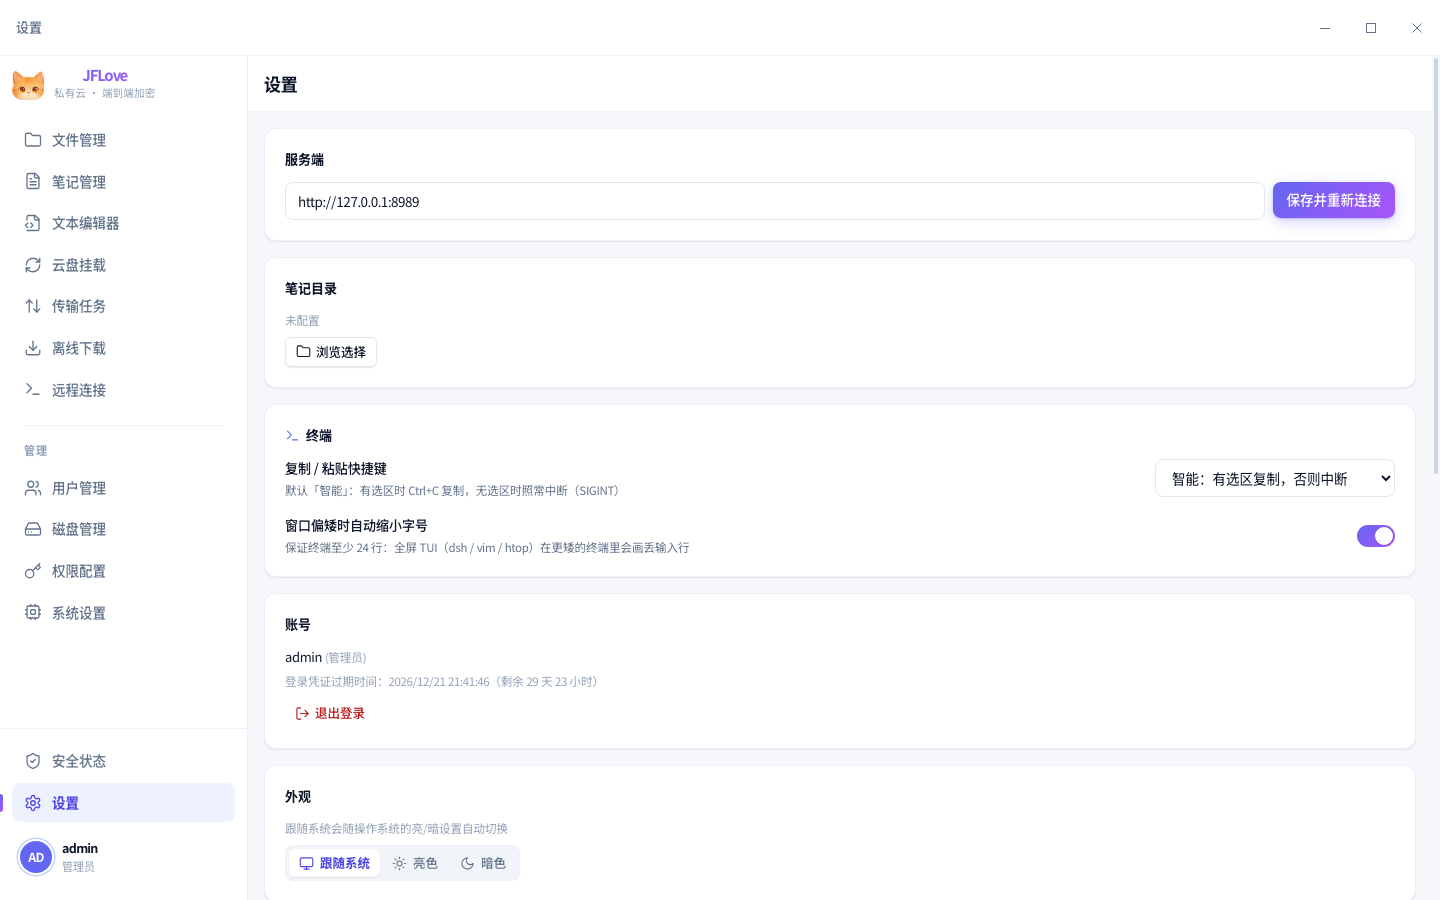
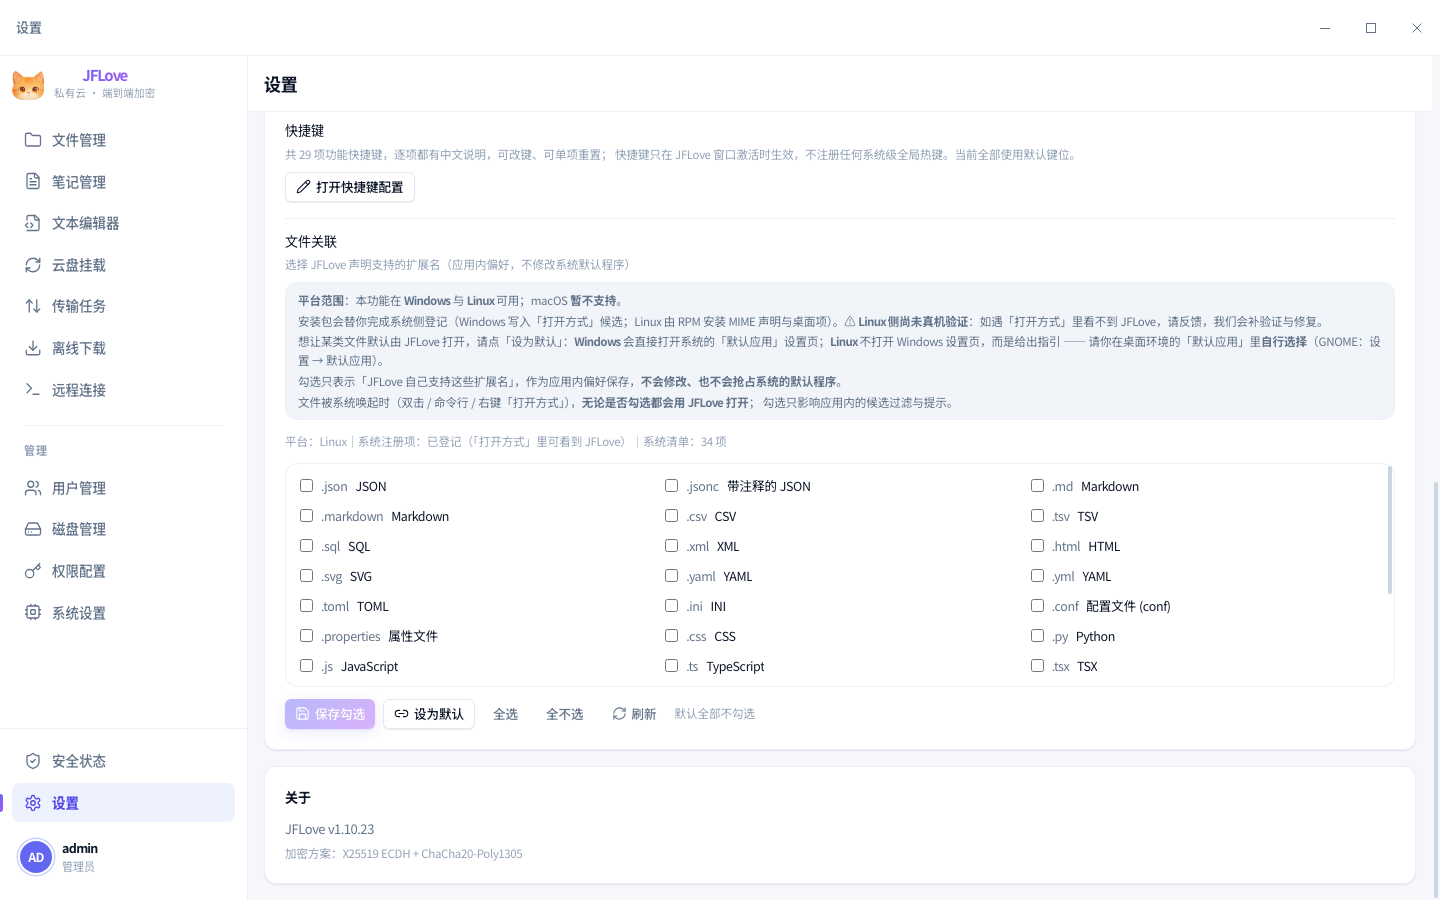
docs(website): 官网更新至 v1.10.23（内容抽取 + 三端截图重拍 + 截图工具修正）

diff --git a/website/tools/shoot-desktop.py b/website/tools/shoot-desktop.py
@@ -50,7 +50,11 @@ os.environ.setdefault("QT_QPA_PLATFORM", "offscreen")
 # （实测：~/.local/share/JFLove/storage 里留着 vmtest 的旧 JWT，
 #   渲染层拿它发请求 → 401「令牌无效或已过期」→ 截到的全是错误页）。
 # Linux 的数据目录由 XDG_DATA_HOME 决定，改它即可完全隔离，且不动真实用户数据。
-_CLEAN_DATA_HOME = Path(args.out).resolve().parent / "_xdg"
+# 目录必须放 /tmp：早先放在截图输出目录旁（`<out>/../_xdg`），会在
+# `website/public/screenshots/` 下留下临时目录被打进站点。
+import tempfile  # noqa: E402
+
+_CLEAN_DATA_HOME = Path(tempfile.mkdtemp(prefix="jf-shoot-xdg-"))
 (_CLEAN_DATA_HOME / "JFLove").mkdir(parents=True, exist_ok=True)
 os.environ["XDG_DATA_HOME"] = str(_CLEAN_DATA_HOME)
 
@@ -194,10 +198,31 @@ def main() -> int:
         print(f"[shoot-desktop] 截第 {idx + 1}/{len(PAGES)} 页：{name} ({route})")
         shell.view.page().runJavaScript(f"location.hash = {route!r}; 0")
 
-        def do_shot() -> None:
-            shot(name)
+        def after_shot() -> None:
             state["page"] += 1
             QTimer.singleShot(600, capture_next)
+
+        def do_shot() -> None:
+            if name == "settings":
+                # 滚到底再拍：让「关于」分区里的版本号出现在图上。
+                # SPEC §9.1 要求每端 settings 图是**版本锚点**；顶部视角看不到「关于」，
+                # 图上没有版本号就自证不了版本（旧版图正因此无法自证）。
+                # 注意：桌面 Web UI 的滚动容器是 <main class="overflow-auto">，
+                # window.scrollTo 对它是无效的（实测拍出来仍是顶部）。
+                shell.view.page().runJavaScript(
+                    "(() => {"
+                    "  const m = document.querySelector('main');"
+                    "  if (m && m.scrollHeight > m.clientHeight) {"
+                    "    m.scrollTop = m.scrollHeight; return true;"
+                    "  }"
+                    "  window.scrollTo(0, document.body.scrollHeight);"
+                    "  return false;"
+                    "})()"
+                )
+                QTimer.singleShot(500, lambda: (shot(name), after_shot()))
+                return
+            shot(name)
+            after_shot()
 
         QTimer.singleShot(args.wait, do_shot)
 

diff --git a/文档记录/官网记录/1.10.23.md b/文档记录/官网记录/1.10.23.md
@@ -1,0 +1,73 @@
+# 官网更新对照表 v1.10.23
+
+> 版本：1.10.23｜日期：2026-11-25｜角色：website（人工触发）
+> 触发方式：用户明确说「更新官网」
+> 本轮性质：**追版本**（官网原停在 v1.10.21，补齐 v1.10.22 / v1.10.23 两版）
+> 骨架未动：8 路由 / 顶栏 4 项 / 首页 4 区块 / 页脚 4 列
+
+## 1. 项目变化 → 官网改动
+
+| # | 项目真身（证据） | 官网改动 | 判据 |
+| --- | --- | --- | --- |
+| 1 | `version.json` = `1.10.23`；v1.10.22 / v1.10.23 发布记录：桌面端终端粘贴 / 卡顿 / 断流修复，**无接口 / 无 DDL / 无新菜单** | 三条管线重跑：`content/{meta,features,api-routes}.json` 版本快照 → 1.10.23（特性 11 条未变） | ①②②b③ |
+| 2 | `app.openapi()` version = 1.10.23（75 操作 / 12 分组） | `content/api-openapi.json` 重新生成，接口清单零变化 | ⑩④ |
+| 3 | Release v1.10.23 四资产（apk 66.9MB / rpm 268.2MB / portable 268.2MB / setup 177.5MB） | `content/releases.json` 重新生成，下载页文件名 / 体积 / 直链跟随 | ⑬⑥ |
+| 4 | `jflove-app/lib/pages/settings/settings_page.dart:208` `v1.10.23` | 事实清单 `ui-facts-mobile-2.md:127` 同步该字面量（原写 v1.10.21，⑧ 因此红） | ⑧⑦ |
+| 5 | 三端当前版本产物：Web `dist` 1.10.23、桌面 `ui/dist` 1.10.23、APK `versionName=1.10.23 / versionCode=1010023` | 三端重拍 **33 张**截图并重登记台账：web 12 / desktop 14 / mobile 7 | ⑫ |
+| 6 | `jflove-web/public/logo-256.png` | 官网 Logo 逐字节一致（未变，复验通过） | ⑨ |
+| 7 | 用户已确认的视觉方案 | 设计稿未动，复验仍符合规范 | ⑪ |
+
+## 2. 截图取证（版本绑定，⑫ 的实质）
+
+| 环节 | 做法 / 证据 |
+| --- | --- |
+| 产物版本核验（截图前） | Web `grep 1.10.23 dist/assets/*.js`；桌面 `grep 1.10.23 ui/dist/assets/*.js`；APK `aapt dump badging` → `versionName='1.10.23' versionCode='1010023'` |
+| 数据环境 | 临时后端 `scripts/verify/server.sh start`（`/tmp/jflove-verify.db` 副本，真实 dev 库未碰）；口令为临时口令，仅用于该副本，不入库 |
+| 登录态 | Web 同一浏览器会话登录后逐页截；桌面 `XDG_DATA_HOME` 指向 `/tmp` 干净目录；移动 `adb reverse tcp:8989` + 真实输入（uiautomator 取 bounds，不按像素估） |
+| 版本锚点 | web `settings.png` → `JFLove v1.10.23`；desktop `settings.png` → 滚到「关于」`JFLove v1.10.23`；mobile `settings.png` → `版本 v1.10.23` |
+| 台账 | `python website/scripts/stamp_screenshots.py` → 3 端 / 33 张 / v1.10.23 |
+
+> **移动端旧截图里 `notes.png` 是「加载失败：笔记目录未配置」**（v1.10.21 那样发出去的），
+> 本轮在 `/tmp` 副本库配置笔记目录后重拍，现为正常空状态页「暂无笔记」。
+
+## 3. 截图工具修正（本轮发现并修）
+
+| # | 现象 | 根因 | 修法（文件） |
+| --- | --- | --- | --- |
+| 1 | `web/security.png` 侧栏 Logo 偶发破图 | 截图早于图片 decode（图本身 200） | `shoot-product.mjs`：截图前轮询 `document.images` 全部 `complete` |
+| 2 | 桌面 `settings.png` 拍不到「关于」里的版本号 | 内容区滚动容器是 `<main class="overflow-auto">`，`window.scrollTo` 无效 | `shoot-desktop.py`：设置页滚 `main` 到底再拍 |
+| 3 | `website/public/screenshots/_xdg/` 被当成站点资源 | 干净 XDG 目录建在输出目录旁 | `shoot-desktop.py`：改用 `tempfile.mkdtemp`（/tmp） |
+
+## 4. 门禁与验证结果（全绿，退出码即判据）
+
+```bash
+python scripts/sync_version.py --check              # 0，11 处 = v1.10.23
+python website/scripts/extract_sources.py --check    # 0
+python website/scripts/gen_api_docs.py --check       # 0
+python scripts/check_website_sync.py                 # 14/14，0
+python scripts/check_website_sync.py --self-test     # 0（坏数据全被拦住，还原后复绿）
+python scripts/check_ui_facts.py                     # 0（1179 条全部溯源命中）
+python scripts/check_skills.py                       # 0（14 个技能，错误 0）
+bash website/scripts/verify-site.sh                  # 8/8，0
+```
+
+`verify-site.sh` 关键行：镜像构建 81.7MB；**11 条路由全部 200**；`/install` 客户端重定向到 `/download`；
+4 个下载按钮全部指向真实 Release 资产；面包屑可点；双视口截图产出。
+
+## 5. 发现但本轮未改（需用户拍板 / 属产品范围）
+
+| # | 现象 | 归属 | 证据 |
+| --- | --- | --- | --- |
+| P-1 | 嵌套路由侧栏 Logo 破图（`/files/1`、`/admin/*`）：`src="./logo-128.png"` 相对路径被解析成 `/files/logo-128.png` | 产品（`jflove-web/src/layouts/DesktopLayout.tsx:101`），v1.10.21 已登记为"只记录未修" | 本轮 `web/files-browser.png`、`web/admin-*.png` 仍可见 |
+| P-2 | `LoginPage.tsx:113` 同类相对路径 | 产品，当前未暴露（登录页在根路径） | 源码 |
+| S-1 | 页脚「更新日志」指向 `/docs#changelog`，但 `/docs` 里没有该锚点（死链） | 官网**骨架/内容源**决策：更新日志归 `文档记录/版本发布记录/` + GitHub Releases（`AGENTS.md §8.3`），要改页脚需先改 SPEC 并让用户确认 | `website/src/layouts/AppLayout.tsx:47` |
+
+## 6. 经验候选（`INBOX.md` 由 skills-self-growth triage；本轮受 `AGENTS.md §10.4` 白名单限制未直接写）
+
+1. 事实清单里的**版本字面量**天然每版过期 ⇒ ⑧ 必红；建议 `check_ui_facts.py` 对 `vX.Y.Z` 类文案按 `version.json` 解析（证据：`ui-facts-mobile-2.md:127`，`check_ui_facts` 退出码 1）。
+2. 截图取证前必须确认**页面不是错误态**（笔记目录未配置 → 400 页）——⑫ 只认版本不认内容（证据：旧 `mobile/notes.png`）。
+3. `pkill -f "<含自身命令行的 pattern>"` 会自杀式误杀（本轮 `pkill -f "proxy-dist.py --dist jflove-web/dist"` 触发 `[killed by signal: SIGTERM]`）；用端口定位（`ss -ltnp`）或 PID 文件。
+
+## 7. 是否触发 CICD
+
+**待用户确认**。本轮已验证到"本地工作区全绿 + 本地镜像 8/8"，未 commit / 未 push / 未打 tag。

diff --git a/website/docs/ui-facts-mobile-2.md b/website/docs/ui-facts-mobile-2.md
@@ -124,7 +124,7 @@
 | 管理面板入口 3 | 权限配置 | settings_page.dart:186 |
 | 管理面板入口 4 | 系统设置 | settings_page.dart:192 |
 | 分区标题 | 关于 | settings_page.dart:203 |
-| 信息行（版本；该字面量由 sync_version.py 随 version.json 同步） | v1.10.21 | settings_page.dart:208 |
+| 信息行（版本；该字面量由 sync_version.py 随 version.json 同步） | v1.10.23 | settings_page.dart:208 |
 | 关于副文 | 私有文档 & 笔记管理系统 | settings_page.dart:211 |
 | 关于小字 | X25519 ECDH + ChaCha20-Poly1305 + ES256 JWT | settings_page.dart:216 |
 | 弹窗标题 | 修改服务器地址 | settings_page.dart:239 |
